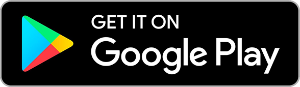
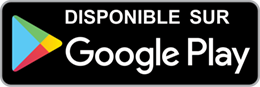
Yooz-2022

diff --git a/offers/index.html b/offers/index.html
@@ -1,1 +1,1 @@
-<!doctype html><html lang="en"><head><title>YOOZ</title><meta charset="utf-8"><meta name="viewport" content="width=device-width,initial-scale=1"><link rel="stylesheet" href="https://maxcdn.bootstrapcdn.com/bootstrap/4.5.2/css/bootstrap.min.css"><script src="https://ajax.googleapis.com/ajax/libs/jquery/3.5.1/jquery.min.js"></script><script src="https://cdnjs.cloudflare.com/ajax/libs/popper.js/1.16.0/umd/popper.min.js"></script><script src="https://maxcdn.bootstrapcdn.com/bootstrap/4.5.2/js/bootstrap.min.js"></script><link rel="preconnect" href="https://fonts.gstatic.com"><link href="https://fonts.googleapis.com/css2?family=Lato:wght@100;300;400;700;900&display=swap" rel="stylesheet"><link rel="preconnect" href="https://fonts.gstatic.com"><link href="https://fonts.googleapis.com/css2?family=Lato:wght@100;300;400;700;900&display=swap" rel="stylesheet"><link rel="stylesheet" href="https://use.fontawesome.com/releases/v5.7.0/css/all.css" integrity="sha384-lZN37f5QGtY3VHgisS14W3ExzMWZxybE1SJSEsQp9S+oqd12jhcu+A56Ebc1zFSJ" crossorigin="anonymous"><link rel="stylesheet" href="../css/styles.css"><link rel="stylesheet" href="../css/custom_30da.css"><link href="./static/css/main.82494c43.chunk.css" rel="stylesheet"></head><style>body{margin:0;overflow-y:scroll;overflow-x:hidden;width:100%}</style><body><noscript>You need to enable JavaScript to run this app.</noscript><div id="root"></div><script>!function(e){function r(r){for(var n,a,i=r[0],c=r[1],l=r[2],p=0,s=[];p<i.length;p++)a=i[p],Object.prototype.hasOwnProperty.call(o,a)&&o[a]&&s.push(o[a][0]),o[a]=0;for(n in c)Object.prototype.hasOwnProperty.call(c,n)&&(e[n]=c[n]);for(f&&f(r);s.length;)s.shift()();return u.push.apply(u,l||[]),t()}function t(){for(var e,r=0;r<u.length;r++){for(var t=u[r],n=!0,i=1;i<t.length;i++){var c=t[i];0!==o[c]&&(n=!1)}n&&(u.splice(r--,1),e=a(a.s=t[0]))}return e}var n={},o={1:0},u=[];function a(r){if(n[r])return n[r].exports;var t=n[r]={i:r,l:!1,exports:{}};return e[r].call(t.exports,t,t.exports,a),t.l=!0,t.exports}a.e=function(e){var r=[],t=o[e];if(0!==t)if(t)r.push(t[2]);else{var n=new Promise((function(r,n){t=o[e]=[r,n]}));r.push(t[2]=n);var u,i=document.createElement("script");i.charset="utf-8",i.timeout=120,a.nc&&i.setAttribute("nonce",a.nc),i.src=function(e){return a.p+"static/js/"+({}[e]||e)+"."+{3:"05879fa0"}[e]+".chunk.js"}(e);var c=new Error;u=function(r){i.onerror=i.onload=null,clearTimeout(l);var t=o[e];if(0!==t){if(t){var n=r&&("load"===r.type?"missing":r.type),u=r&&r.target&&r.target.src;c.message="Loading chunk "+e+" failed.\n("+n+": "+u+")",c.name="ChunkLoadError",c.type=n,c.request=u,t[1](c)}o[e]=void 0}};var l=setTimeout((function(){u({type:"timeout",target:i})}),12e4);i.onerror=i.onload=u,document.head.appendChild(i)}return Promise.all(r)},a.m=e,a.c=n,a.d=function(e,r,t){a.o(e,r)||Object.defineProperty(e,r,{enumerable:!0,get:t})},a.r=function(e){"undefined"!=typeof Symbol&&Symbol.toStringTag&&Object.defineProperty(e,Symbol.toStringTag,{value:"Module"}),Object.defineProperty(e,"__esModule",{value:!0})},a.t=function(e,r){if(1&r&&(e=a(e)),8&r)return e;if(4&r&&"object"==typeof e&&e&&e.__esModule)return e;var t=Object.create(null);if(a.r(t),Object.defineProperty(t,"default",{enumerable:!0,value:e}),2&r&&"string"!=typeof e)for(var n in e)a.d(t,n,function(r){return e[r]}.bind(null,n));return t},a.n=function(e){var r=e&&e.__esModule?function(){return e.default}:function(){return e};return a.d(r,"a",r),r},a.o=function(e,r){return Object.prototype.hasOwnProperty.call(e,r)},a.p="./",a.oe=function(e){throw console.error(e),e};var i=this["webpackJsonpyooz-app"]=this["webpackJsonpyooz-app"]||[],c=i.push.bind(i);i.push=r,i=i.slice();for(var l=0;l<i.length;l++)r(i[l]);var f=c;t()}([])</script><script src="./static/js/2.55ddc76d.chunk.js"></script><script src="./static/js/main.14c30854.chunk.js"></script></body></html>
+<!doctype html><html lang="en"><head><title>YOOZ</title><meta charset="utf-8"><meta name="viewport" content="width=device-width,initial-scale=1"><link rel="stylesheet" href="https://maxcdn.bootstrapcdn.com/bootstrap/4.5.2/css/bootstrap.min.css"><script src="https://ajax.googleapis.com/ajax/libs/jquery/3.5.1/jquery.min.js"></script><script src="https://cdnjs.cloudflare.com/ajax/libs/popper.js/1.16.0/umd/popper.min.js"></script><script src="https://maxcdn.bootstrapcdn.com/bootstrap/4.5.2/js/bootstrap.min.js"></script><link rel="preconnect" href="https://fonts.gstatic.com"><link href="https://fonts.googleapis.com/css2?family=Lato:wght@100;300;400;700;900&display=swap" rel="stylesheet"><link rel="preconnect" href="https://fonts.gstatic.com"><link href="https://fonts.googleapis.com/css2?family=Lato:wght@100;300;400;700;900&display=swap" rel="stylesheet"><link rel="stylesheet" href="https://use.fontawesome.com/releases/v5.7.0/css/all.css" integrity="sha384-lZN37f5QGtY3VHgisS14W3ExzMWZxybE1SJSEsQp9S+oqd12jhcu+A56Ebc1zFSJ" crossorigin="anonymous"><link rel="stylesheet" href="../css/styles.css"><link rel="stylesheet" href="../css/custom_30da.css"><link href="./static/css/main.82494c43.chunk.css" rel="stylesheet"></head><style>body{margin:0;overflow-y:scroll;overflow-x:hidden;width:100%}</style><body><noscript>You need to enable JavaScript to run this app.</noscript><div id="root"></div><script>!function(e){function r(r){for(var n,a,i=r[0],c=r[1],l=r[2],p=0,s=[];p<i.length;p++)a=i[p],Object.prototype.hasOwnProperty.call(o,a)&&o[a]&&s.push(o[a][0]),o[a]=0;for(n in c)Object.prototype.hasOwnProperty.call(c,n)&&(e[n]=c[n]);for(f&&f(r);s.length;)s.shift()();return u.push.apply(u,l||[]),t()}function t(){for(var e,r=0;r<u.length;r++){for(var t=u[r],n=!0,i=1;i<t.length;i++){var c=t[i];0!==o[c]&&(n=!1)}n&&(u.splice(r--,1),e=a(a.s=t[0]))}return e}var n={},o={1:0},u=[];function a(r){if(n[r])return n[r].exports;var t=n[r]={i:r,l:!1,exports:{}};return e[r].call(t.exports,t,t.exports,a),t.l=!0,t.exports}a.e=function(e){var r=[],t=o[e];if(0!==t)if(t)r.push(t[2]);else{var n=new Promise((function(r,n){t=o[e]=[r,n]}));r.push(t[2]=n);var u,i=document.createElement("script");i.charset="utf-8",i.timeout=120,a.nc&&i.setAttribute("nonce",a.nc),i.src=function(e){return a.p+"static/js/"+({}[e]||e)+"."+{3:"05879fa0"}[e]+".chunk.js"}(e);var c=new Error;u=function(r){i.onerror=i.onload=null,clearTimeout(l);var t=o[e];if(0!==t){if(t){var n=r&&("load"===r.type?"missing":r.type),u=r&&r.target&&r.target.src;c.message="Loading chunk "+e+" failed.\n("+n+": "+u+")",c.name="ChunkLoadError",c.type=n,c.request=u,t[1](c)}o[e]=void 0}};var l=setTimeout((function(){u({type:"timeout",target:i})}),12e4);i.onerror=i.onload=u,document.head.appendChild(i)}return Promise.all(r)},a.m=e,a.c=n,a.d=function(e,r,t){a.o(e,r)||Object.defineProperty(e,r,{enumerable:!0,get:t})},a.r=function(e){"undefined"!=typeof Symbol&&Symbol.toStringTag&&Object.defineProperty(e,Symbol.toStringTag,{value:"Module"}),Object.defineProperty(e,"__esModule",{value:!0})},a.t=function(e,r){if(1&r&&(e=a(e)),8&r)return e;if(4&r&&"object"==typeof e&&e&&e.__esModule)return e;var t=Object.create(null);if(a.r(t),Object.defineProperty(t,"default",{enumerable:!0,value:e}),2&r&&"string"!=typeof e)for(var n in e)a.d(t,n,function(r){return e[r]}.bind(null,n));return t},a.n=function(e){var r=e&&e.__esModule?function(){return e.default}:function(){return e};return a.d(r,"a",r),r},a.o=function(e,r){return Object.prototype.hasOwnProperty.call(e,r)},a.p="./",a.oe=function(e){throw console.error(e),e};var i=this["webpackJsonpyooz-app"]=this["webpackJsonpyooz-app"]||[],c=i.push.bind(i);i.push=r,i=i.slice();for(var l=0;l<i.length;l++)r(i[l]);var f=c;t()}([])</script><script src="./static/js/2.55ddc76d.chunk.js"></script><script src="./static/js/main.2a613094.chunk.js"></script></body></html>

diff --git a/index.html b/index.html
@@ -205,13 +205,13 @@
 								<img src="images/yooz-logo-500.png" class="img-fit">
 								<div class="download-container">
 									<a href="https://play.google.com/store/apps/details?id=dz.ooredoo.ibiza" class="btn-download">
-										<img src="images/download-googleplay.png">
+										<img src="images/2023/app_gallery.png">
 									</a>
 									<!--a href="#" class="btn-download">
                                         <img src="images/download-appstore.png">
                                     </a-->
 									<a href="https://appgallery.huawei.com/#/app/C103964575?sharePrepath=ag&amp%3Blocale=fr_FR&amp%3Bsource=appshare&amp%3Bsubsource=C103964575" class="btn-download last">
-										<img src="images/download-huaweiappgallery.png">
+										<img src="images/2023/google_play.png">
 									</a>
 								</div>
 							</div>

diff --git a/about.html b/about.html
@@ -101,13 +101,13 @@
 							<img src="images/yooz-logo-500.png" class="img-fit">
 							<div class="download-container">
 								<a href="https://play.google.com/store/apps/details?id=dz.ooredoo.ibiza" class="btn-download">
-									<img src="images/download-googleplay.png">
+									<img src="images/2023/app_gallery.png">
 								</a>
 								<!--a href="#" class="btn-download">
                                     <img src="images/download-appstore.png">
                                 </a-->
 								<a href="https://appgallery.huawei.com/#/app/C103964575?sharePrepath=ag&amp%3Blocale=fr_FR&amp%3Bsource=appshare&amp%3Bsubsource=C103964575" class="btn-download last">
-									<img src="images/download-huaweiappgallery.png">
+									<img src="images/2023/google_play.png">
 								</a>
 							</div>
 			    		</div>

diff --git a/css/custom_30da.css b/css/custom_30da.css
@@ -87,6 +87,27 @@
     object-fit: contain;
 }
 /*===================*/
+@media only screen and (max-width: 1400px) {
+    /*.banner-container{*/
+    /*    padding: 10px 120px 0px 120px;*/
+    /*    max-height: 450px;*/
+    /*}*/
+    .banner-container .div3 img{
+
+        /*transform: scale(1) translate(0,-10%);*/
+        max-height: 246px;
+
+        /*background-color: blue;*/
+
+    }
+    /*.banner-container .div1 {*/
+    /*    min-height: 0px;*/
+    /*    max-height: 400px;*/
+    /*}*/
+    /*.banner-container .div2 {*/
+    /*    max-height: 100px;*/
+    /*}*/
+}
 @media only screen and (max-width: 1100px) {
     .banner-container{
         padding: 10px 120px 0px 120px;
